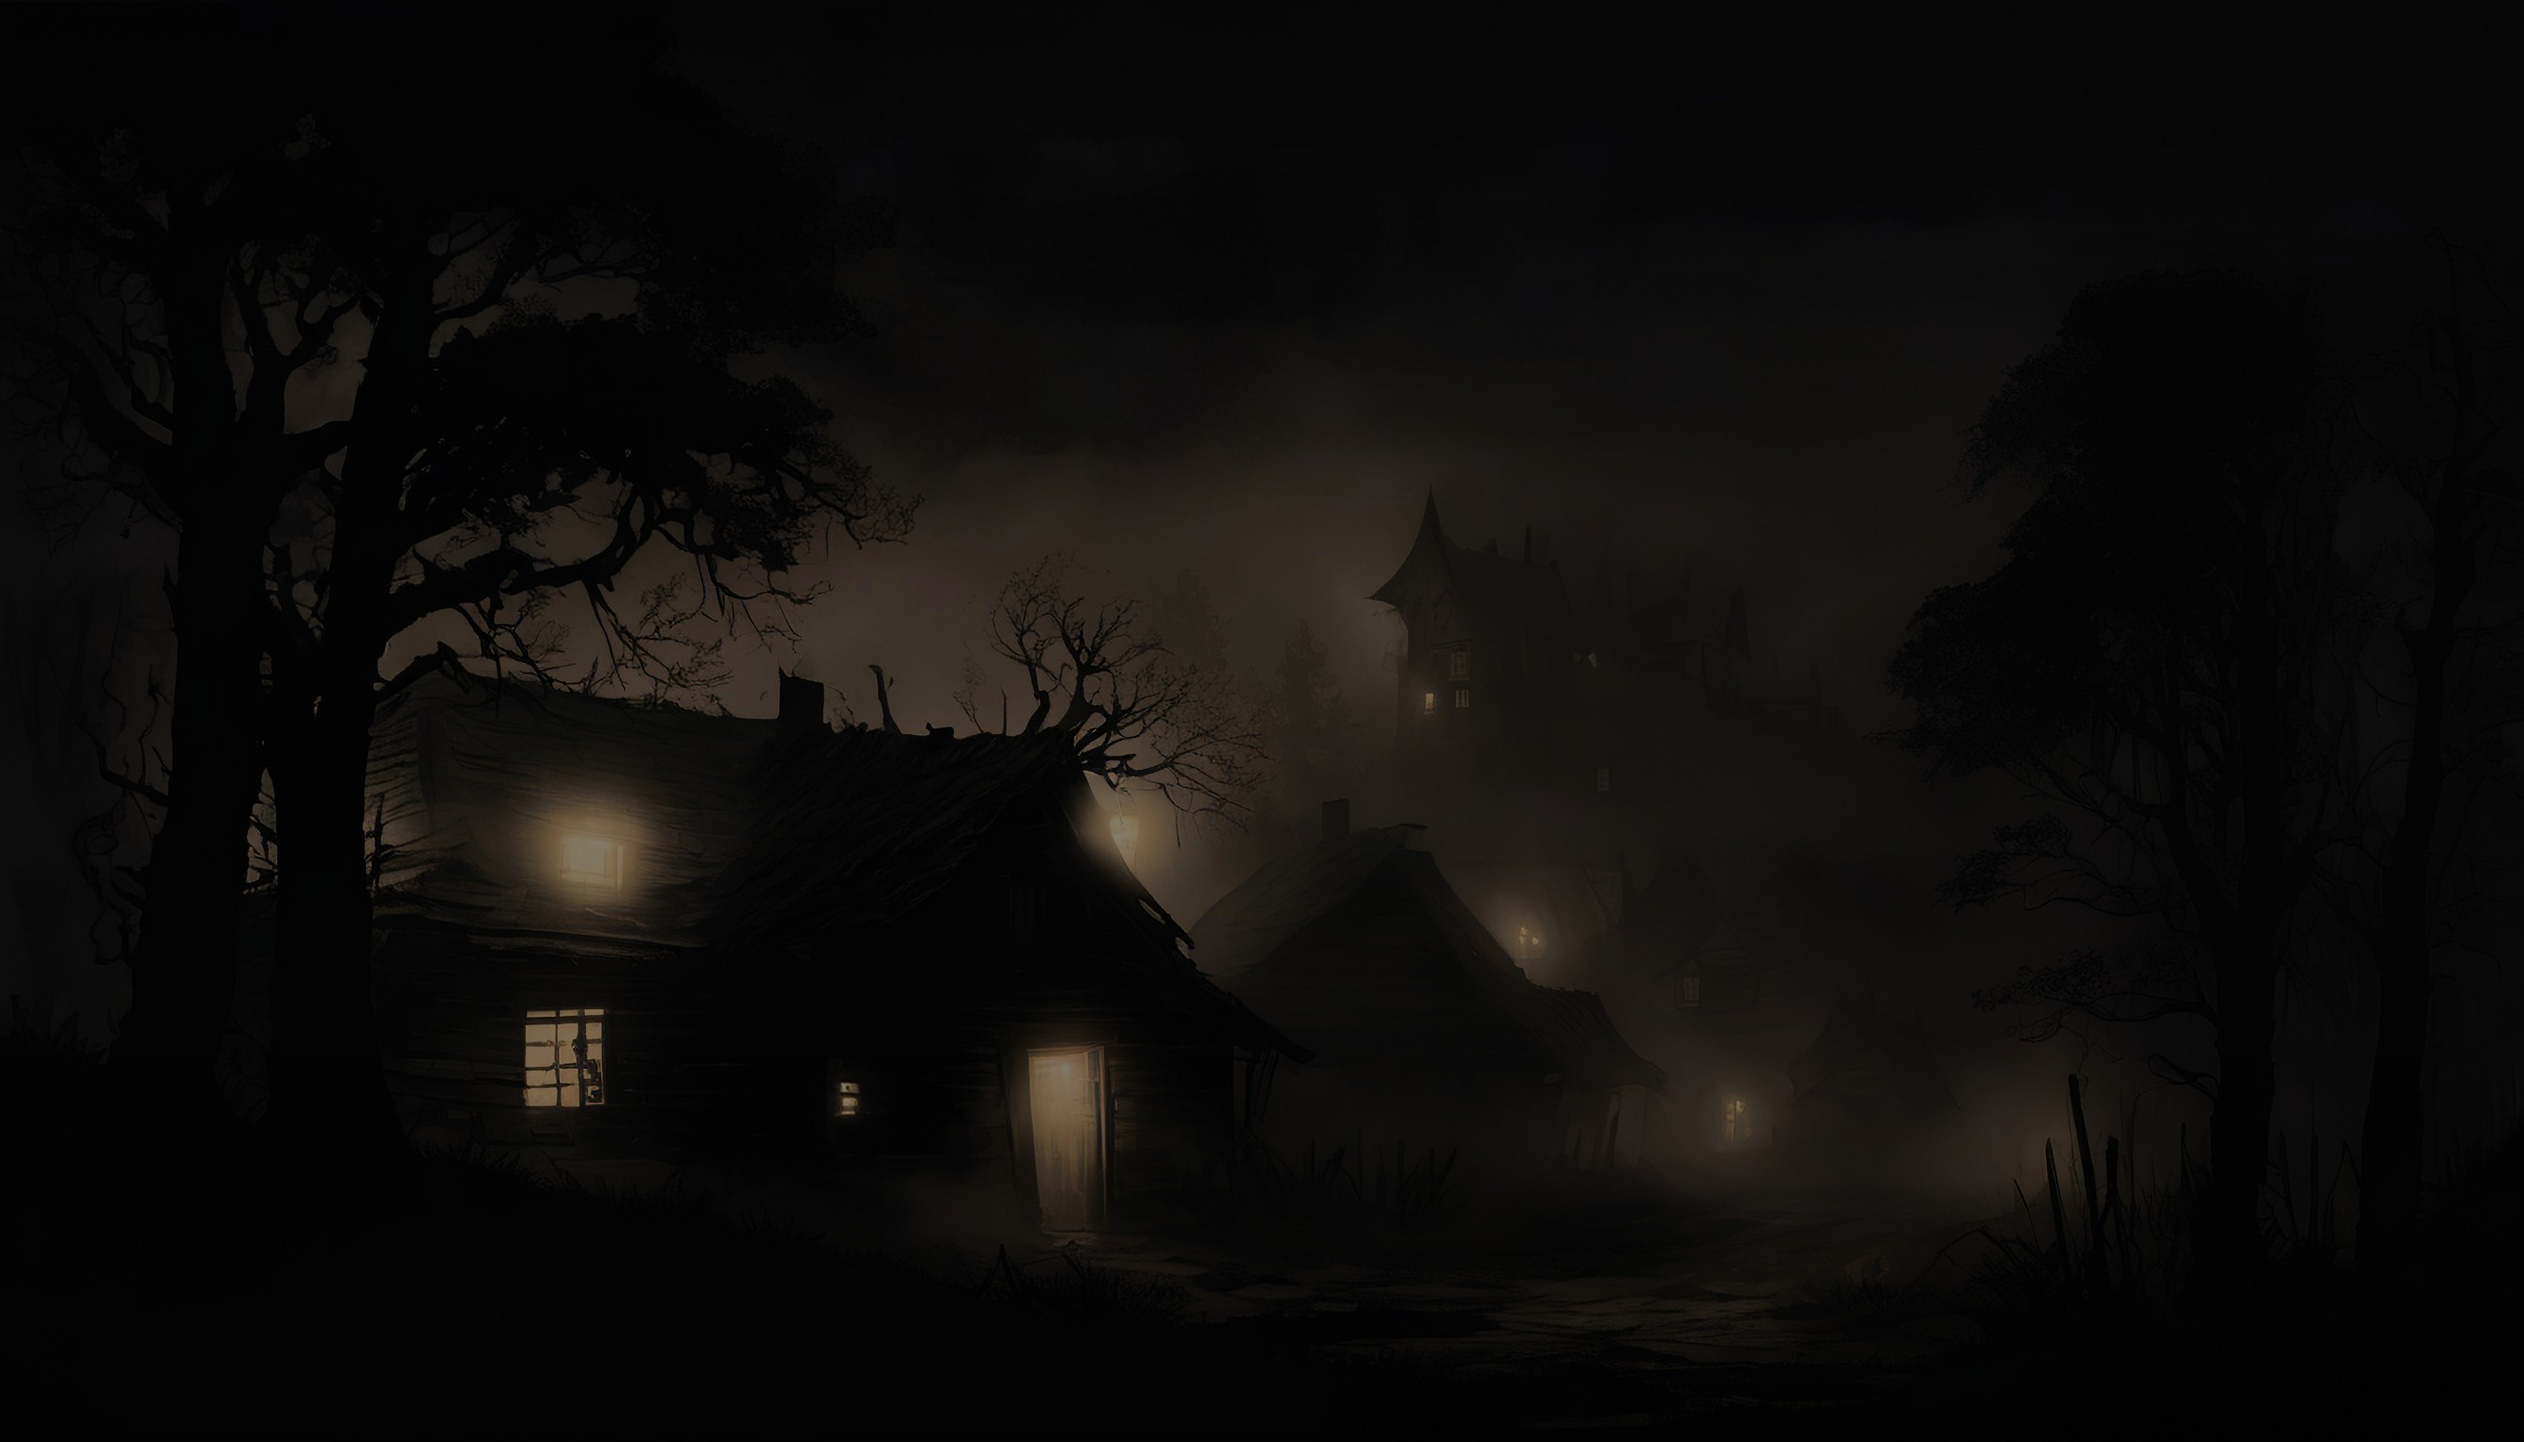
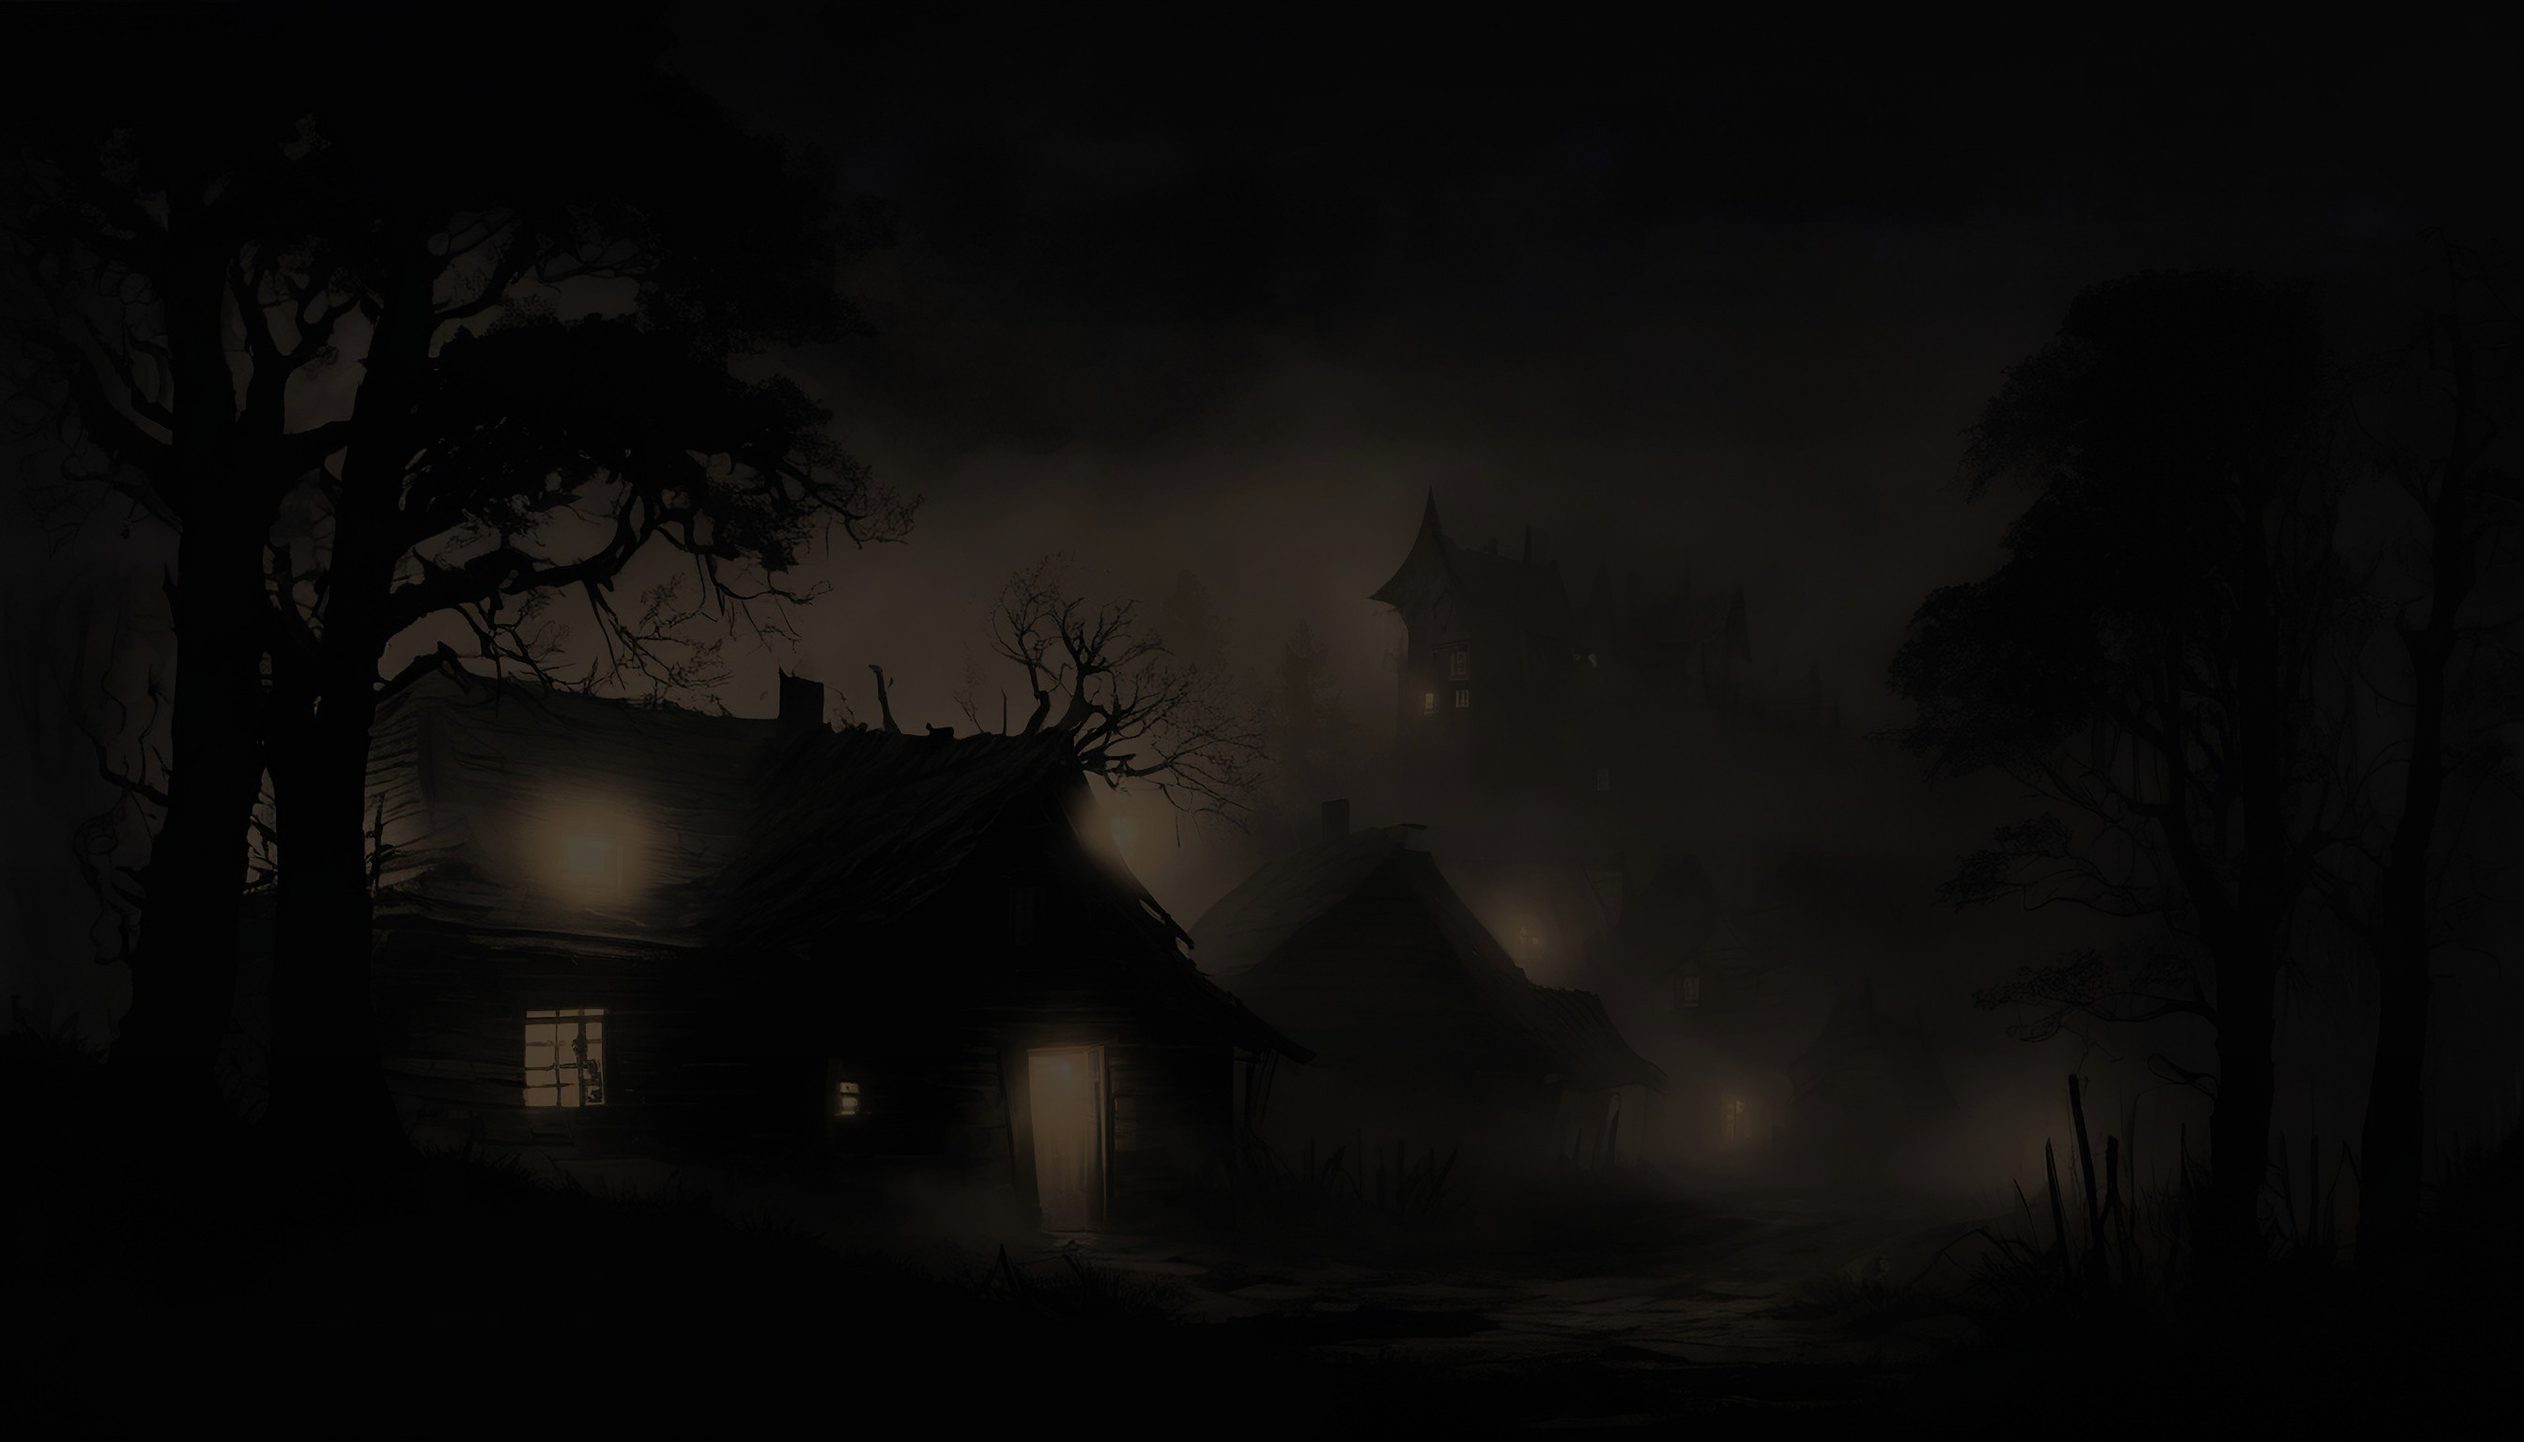
Settle on tanh Vc=0.30 for the background lights
Picked from a 0.55..0.25 gradient: window lights melt into the fog haze
(p99.9 66 = background p99), keeping text perfectly readable while the
hero arts carry the attention. Extra gradient variants removed.

diff --git a/Source/platform/aurora_os/devilution_launcher/assets/ART_PROMPTS.md b/Source/platform/aurora_os/devilution_launcher/assets/ART_PROMPTS.md
@@ -98,12 +98,16 @@ Blur убран сознательно: DAT-апскейл сам сохраня
 
 **Компрессия светов (bg.jpg, 2026-09-01):** жёлтые огни деревни слепили на
 фоне текста (max 237, доля >140 — 0.29%). Лечится в HSV мягким плечом
-`tanh`: `V' = Vc·tanh(V/Vc)`, Vc=0.55 — монотонная кривая, тени не трогает
-(при малых V ≈ тождественна), верх сатурируется: max 125, доля >140 — 0%,
-mean 13.6 → 12.1. **Важно:** маски вида `V·(1−k·smoothstep(t, V))`
-НЕмонотонны — ядро огня прижимается сильнее кромки свечения, свечение
-«выворачивается» и вокруг окон расцветают жёлтые кольца (проверено).
-**Оригинал без компрессии хранится рядом: `bg_alt_village_d68.jpg`.**
+`tanh`: `V' = Vc·tanh(V/Vc)` — монотонная кривая, тени не трогает (при
+малых V ≈ тождественна), верх сатурируется. Финал — **Vc=0.30** по
+градации 0.55/0.40/0.35/0.30/0.25: max 73, p99.9 66, mean 11.5 — огни
+сравнялись с пеленой тумана, текст читается идеально, сцена не отвлекает
+(философия: фон — дымка, внимание забирают hero-арты). **Важно:** маски
+вида `V·(1−k·smoothstep(t, V))` НЕмонотонны — ядро огня прижимается
+сильнее кромки свечения, свечение «выворачивается» и вокруг окон
+расцветают жёлтые кольца (проверено на Vc=0.55-подходе). **Оригинал без
+компрессии хранится рядом: `bg_alt_village_d68.jpg`** (для пересборки
+другой градации).
 
 **Опыт с рисованными воронами** (для будущих итераций): inpaint по маске
 модель заливает туманом; рисованные полигоны (крылья — Безье, туманный
